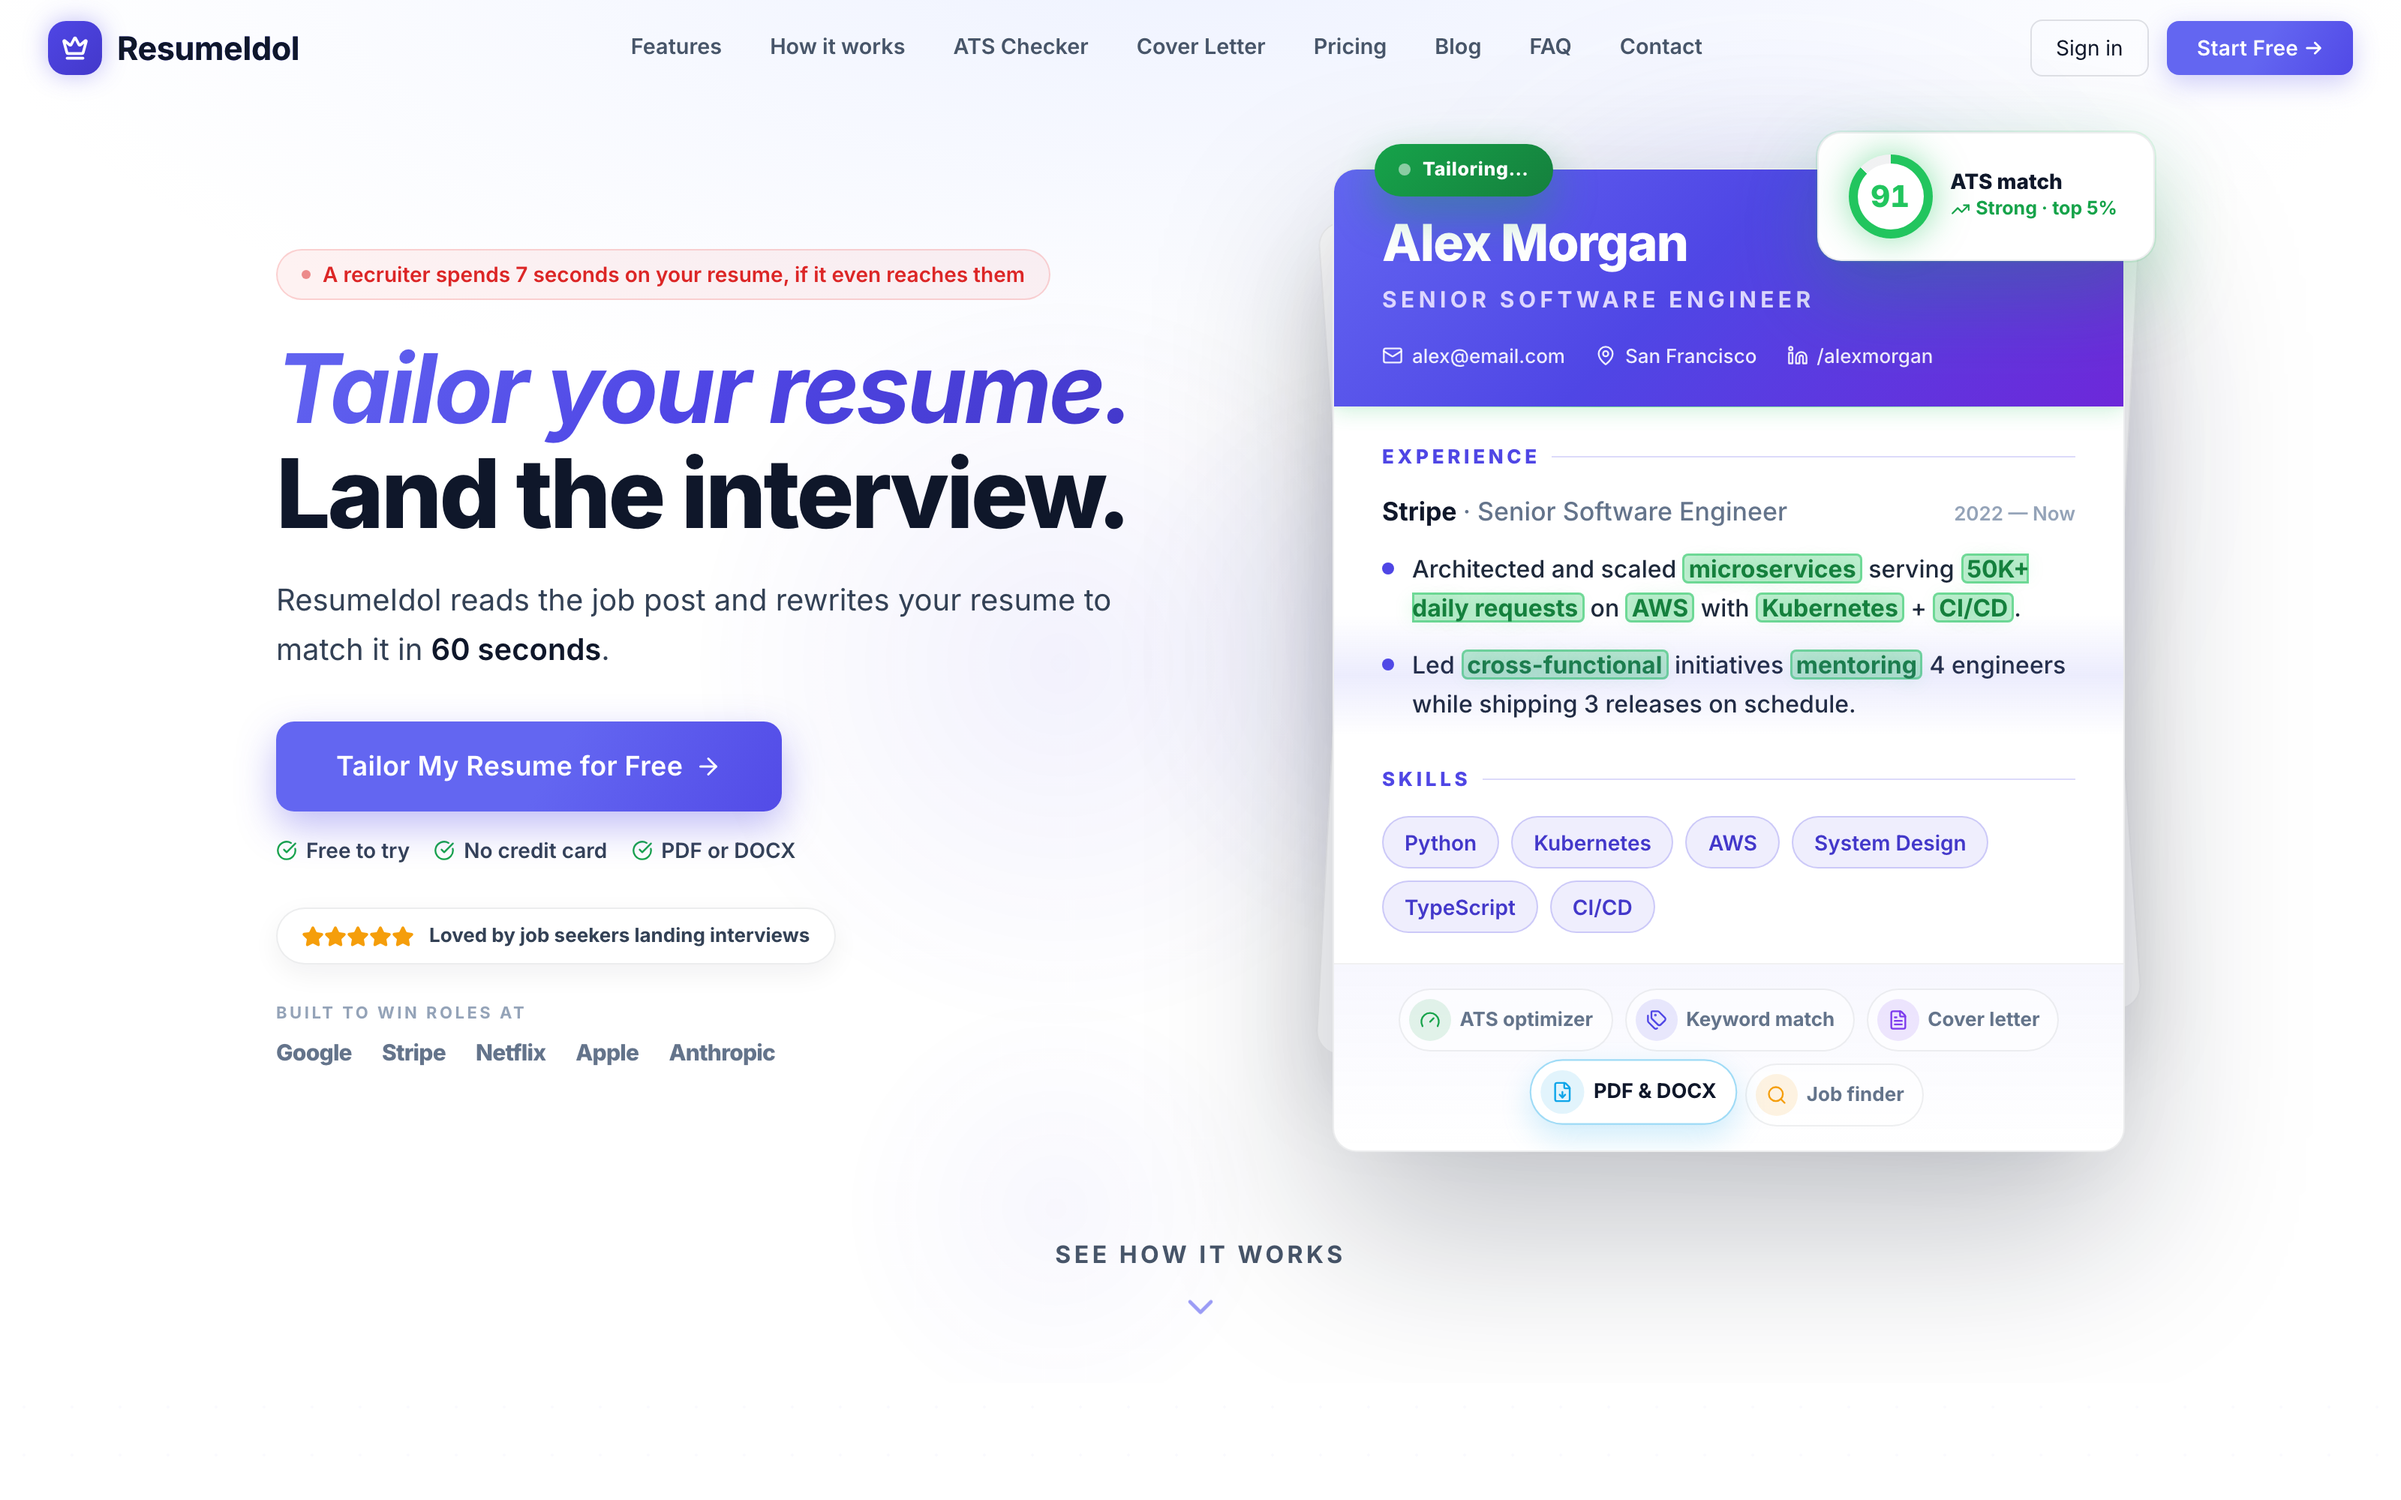
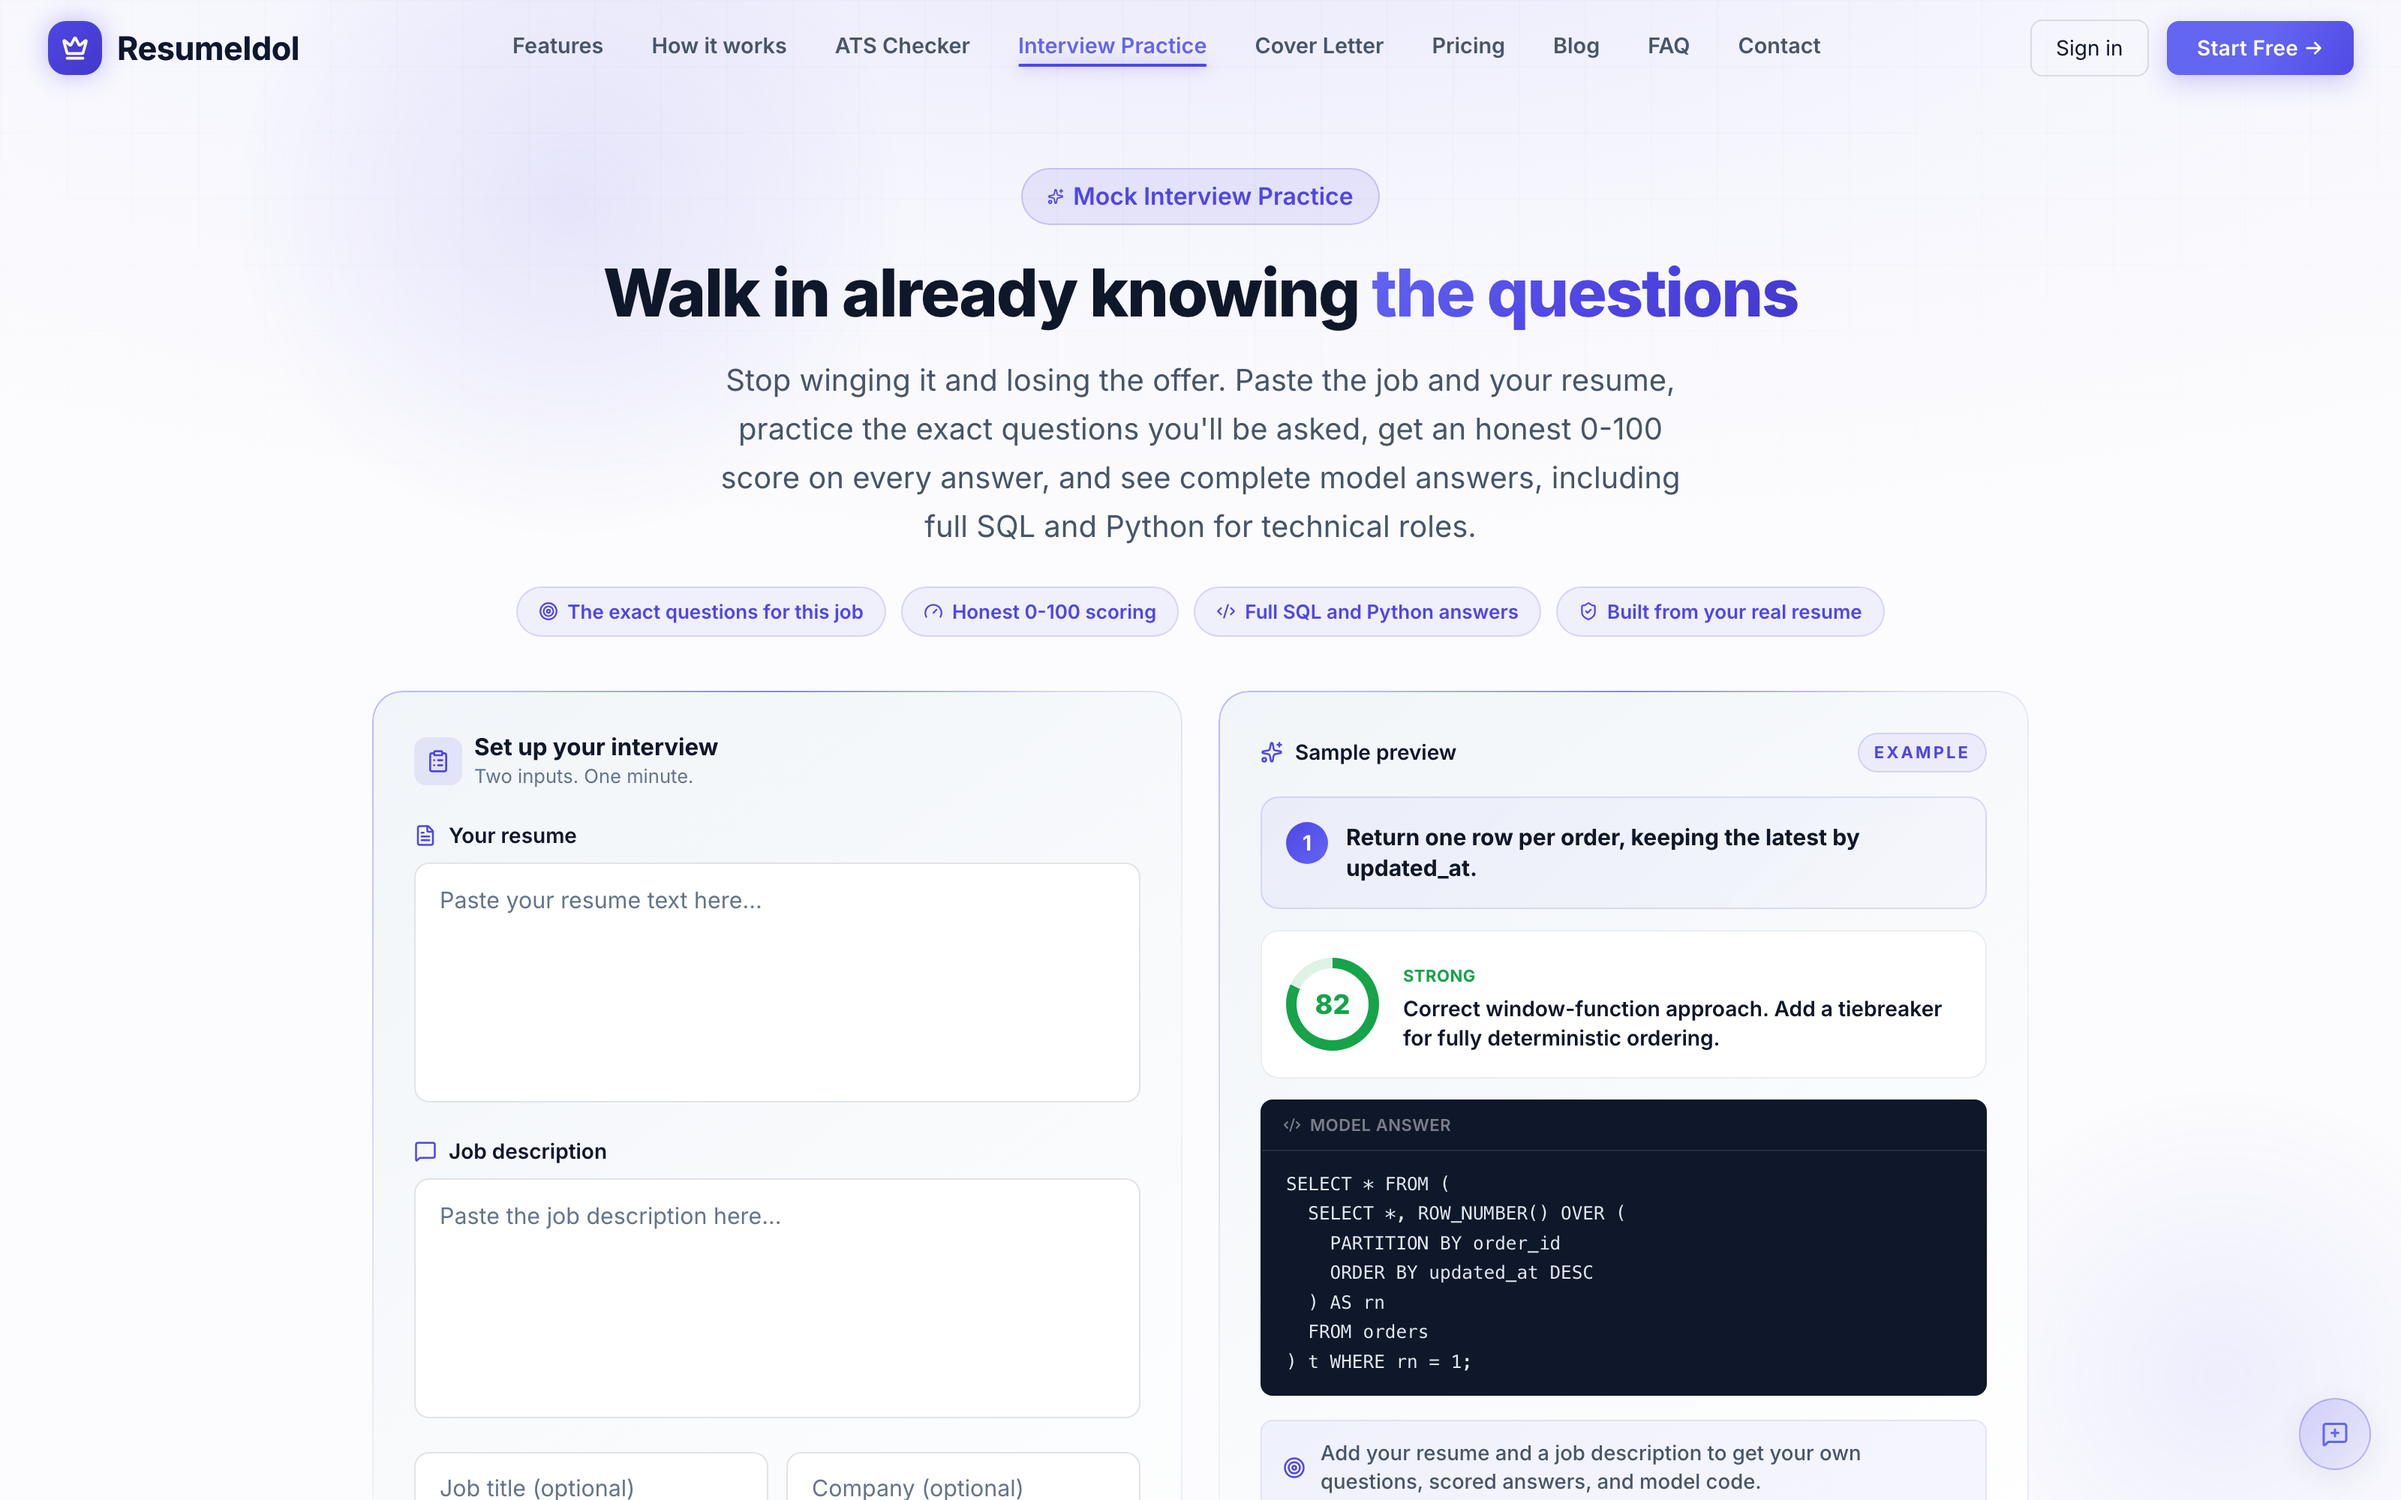
Portfolio: add ResumeIdol mock interview feature to copy + refresh screenshot

diff --git a/lib/site-data.ts b/lib/site-data.ts
@@ -120,7 +120,7 @@ export const projects: Project[] = [
     name: "ResumeIdol",
     tagline: "Smart Resume Tailor",
     description:
-      "Paste your resume and a job description, then watch it transform into a perfectly tailored version in seconds. Every bullet rewritten to match the role, with magic-link sign in, saved resumes, one-click job URL import, and a Pro tier.",
+      "Paste your resume and a job description, then watch it transform into a perfectly tailored version in seconds, every bullet rewritten to match the role. Now with mock interview practice that drills you on the exact questions for the job, scores every answer out of 100 with strengths and fixes, and reveals complete model answers including full SQL and Python for technical roles.",
     challenge:
       "Job seekers send the same generic resume everywhere. Tailoring manually takes 30-60 minutes per application.",
     solution:
@@ -133,7 +133,7 @@ export const projects: Project[] = [
     image: "/portfolio/resumeidol.png",
     metrics: [
       { label: "Tailor Time", value: "<60s" },
-      { label: "Auth", value: "Magic Link" },
+      { label: "Mock Interview", value: "Scored 0-100" },
       { label: "Time to Build", value: "2 weeks" },
     ],
     featured: true,
